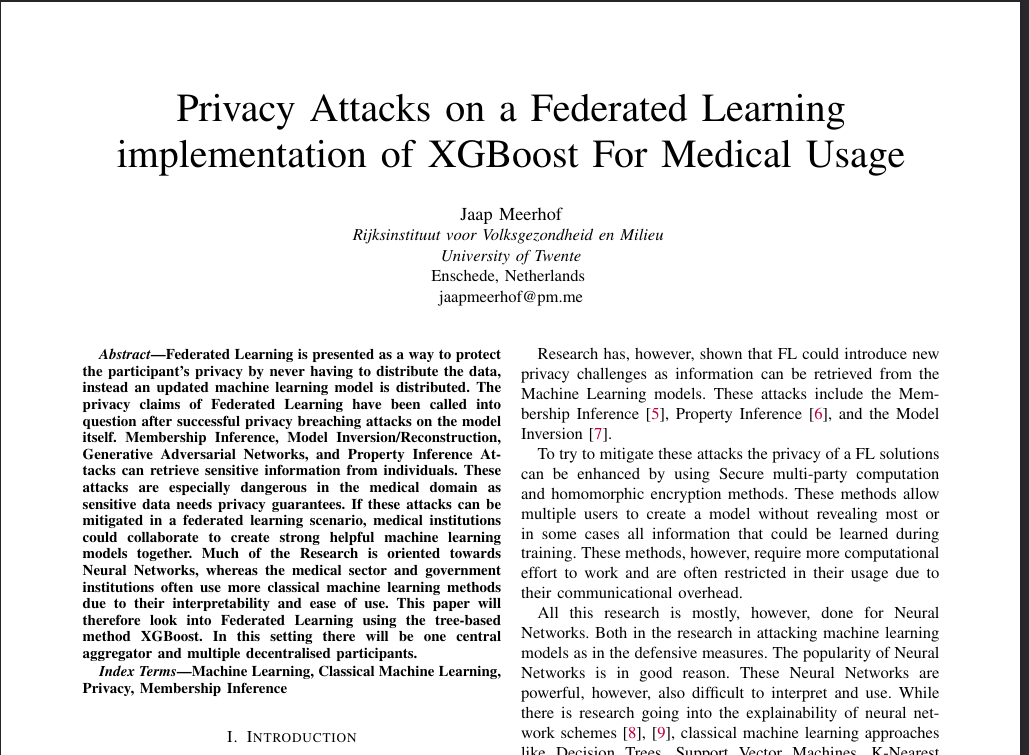
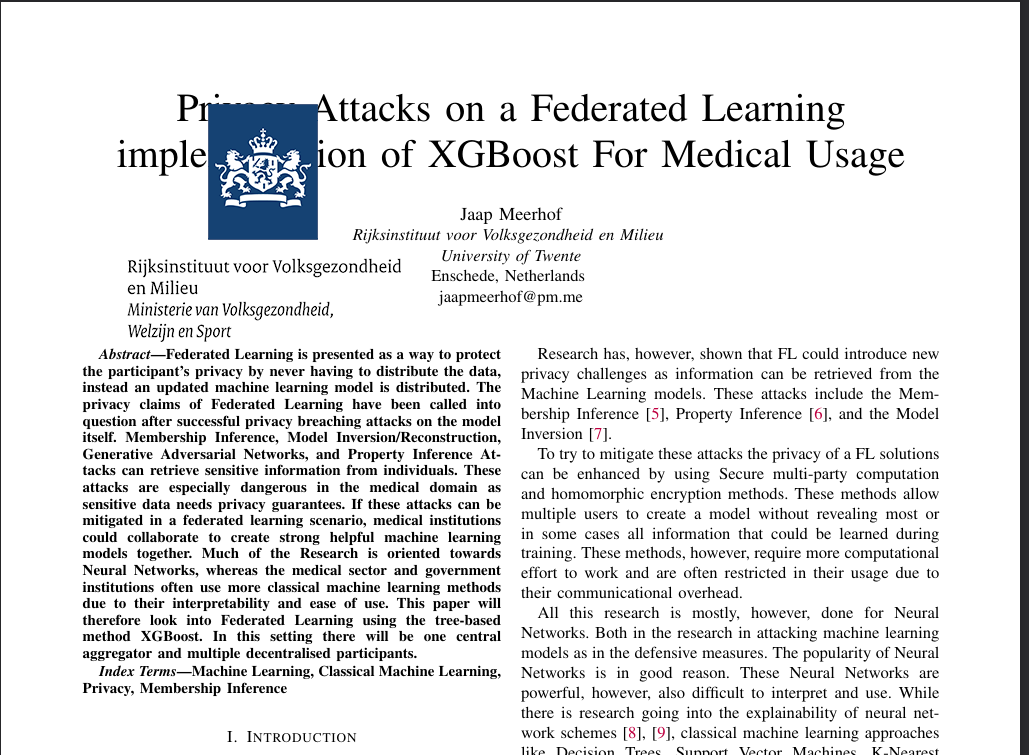
Big changes!

Changed region(s): [[0.1244, 0.1219, 0.4043, 0.457]]

diff --git a/content/projects/master/index.md b/content/projects/master/index.md
@@ -1,7 +1,18 @@
 ---
 title: "Master Thesis"
 date: 2023-06-25T20:53:32+02:00
-draft: true
+draft: false
 ---
 
-My master thesis is that I'm currently working on is about figuring out what the privacy when deploying XGBoost in a federated setting.
+I'm currently busy with my assignment for the RIVM (National Dutch Institute for Health and Nature). I'm investigating the privacy challenges in applying Gradient Boosted Decision Trees in a Federated setting. With the main question being: is your personal health data safe when this data is used in machine learning models (specifically XGBoost) where the models are shared with other parties.
+
+## Federated Learning
+
+The RIVM is investigating the viability of using federated learning for a data set that is currently being standardized between hospitals. Different hospitals will carry the same features, for example age, sex and medicine used will be stored for different patients on different hospitals. The hospitals and other health organizations can collaboratively create one model on this standardized data set. Federated Learning could be the Perfect solution for this problem.
+
+## XGBoost
+
+XGBoost is a quite new Gradient Boosted Decision Tree (GBDT) algorithm which builds upon the concept of GBDTs by adding extra regularization parameters and other computational speedups. There are algorithms to use XGBoost in federated settings by numerous papers. [Check my preparatory work paper (grade=8.0) ](https://jaapmeerhof.nl/index.php/s/Wpd4JrQoa9QdmPT).
+
+## Outlook
+Currently I just finished creating the federated version of XGBoost for binary classification. Which I'll have to adapt to multi-class classification. After that I'll be able to attack the simulated network and hopefully create an attack which takes advantage of the intermediate shared information. 

diff --git a/content/about.md b/content/about.md
@@ -4,8 +4,29 @@ date: 2023-06-24T17:50:18+02:00
 draft: false
 ---
 
-Hello reader, I'm Jaap Meerhof
+Hello reader, I'm **Jaap Meerhof**
 
 I'm a nerd that is mainly into privacy preserving technologies and cloud solutions.
 
-## TODO explain more, but don't reveal too much to preserver privacy
+## Education
+
+| Degree | University | date | 
+|---|---|---|
+| Bachelor of Science, Technical Computer Science/Technische informatica | University of Twente | 2018-2021
+| Master of Science, Computer Science / Cyber Security | University of Twente | 2021 - today |
+
+## Skills
+In general I'd say the most important skill I have build up is in general technical **problem-solving**.
+
+
+{{< alert icon="circle-info">}}
+**Note** the list of languages is not complete, it shows what I have most experience in. But I'd argue that once you learned a Procedural, Object Oriented, Functional, Scripting, or Logic Programming Language. You are able to work in all of them after you learn the syntax. 
+{{< /alert >}}
+| Skill | Experience |
+|----|---|
+| Python | Loads of scripting for mostly Machine Learning |
+| Java | I'd say my most mastered language |
+| Rust | Big Rust fan for security reasons |
+| SQL | DROP TABLE user ;|
+| Machine Learning | Advanced Machine Learning Experience in (Deep) Neural Networks, Reinforcement Learning, and Gradient Boosted Decision Trees | 
+| Cyber Security | My whole master -> my main experience is in **Fuzzing**, **Privacy Preserving Technologies**, **Network Security**, **Cloud Security**, **IOT security**, **Security/Privacy Law**,  **BioMetrics Security**| 

diff --git a/content/projects/bachelor_design/index.md b/content/projects/bachelor_design/index.md
@@ -4,11 +4,16 @@ date: 2021-03-14T21:14:23+02:00
 draft: false
 ---
 
-For my bachelor design project we were tasked in creating a location based augmented reality app. Thus we created UT-GO! [available on playstore](https://play.google.com/store/apps/details?id=nl.utwente.utgo). 
+For my bachelor design project we were tasked in creating a location based augmented reality app. Thus we created UT-GO!, [which is available on the PlayStore {{< icon "playstorecolor" >}}!](https://play.google.com/store/apps/details?id=nl.utwente.utgo) . 
 
 ## Usage by University of Twente
-We are quite proud that our app has been used numerous times to show new students around the University Of Twente in an interactive manner while teaching them about our Bachelor program.
+We are quite proud that our app has been used numerous times to show new students around the University Of Twente in an interactive manner while teaching them about our Bachelor program. 
+
+## My responsibility
+**I was responsible for the Augmented Reality**, which was quite painful as Google's AR-Core (our best option) was not supported by Google at the time. But the AR worked well in the end!
 
 [poster and other links](https://bachelorshowcase-eemcs.apps.utwente.nl/view/tGzVDPfc)
+
+**9.5 Grade Design**, won best presentation
 
 {{<youtube id="9-8iG8ViSPk" title="The trailer for UT-GO!" >}}

diff --git a/content/projects/personalwebsite/index.md b/content/projects/personalwebsite/index.md
@@ -4,11 +4,11 @@ date: 2023-06-24T21:55:02+02:00
 draft: false
 ---
 
-I always wanted to have my own website, however I did not want to deal with the front-end as JavaScript, CSS, and HTML coding is not something I enjoy. Especially JavaScript 🤮.
+I always wanted to have my own website, however I did not want to deal with the front-end as JavaScript, CSS, and HTML coding is not something I enjoy as much as doing back-end work.
 
 ## Hugo
 
-This website was made using Hugo, a framework made using Go. I was drawn too it as it is open-source and you don't have to interact with the HTML, CSS, and JavaScript. I even have the possibility in the future to completely switch the theme.
+This website was made using Hugo, a framework made using Go. I was drawn too it as it is open-source and you don't have to interact with the HTML, CSS, and JavaScript. I even have the possibility in the future to completely switch the theme. All I have to do is add markdown files in a certain structure and Hugo will do the rest of the work for me.
 
 <!-- {{< github repo="nunocoracao/blowfish" >}} -->
 

diff --git a/content/projects/bachelor_research/index.md b/content/projects/bachelor_research/index.md
@@ -9,4 +9,6 @@ tags: ["project"]
 
 For my bachelor's assignment I chose a project that involved Reinforcement Learning. My supervisor wanted to asses the viability of a new routing system that would use routers at junctions to route around vehicles. So when arriving at a junction you can ask the router which turn you should take at that junction. The router would learn from feedback of the car when it learns if it is closer to the end target at the next router. I investigated and created different Reinforcement Learning approaches in this setting to asses which would be best.
 
+I'm quite proud of this paper, looking back there are certainly some small things I would have done differently. But given that this is my first research project **I'm quite proud of this work** (**Grade 9.0 :research**, 8.0 :reflection).
+
 You can get the paper [here](http://essay.utwente.nl/86888/1/Meerhof_BA_EEMCS.pdf).

diff --git a/content/projects/jaapcloud/index.md b/content/projects/jaapcloud/index.md
@@ -10,7 +10,7 @@ New article!
 {{< lead >}}
 Control your own data!
 {{< /lead >}}
-# What is the JaapCloud1.0?
+## What is the JaapCloud1.0?
 The "JaapCloud1.x" is mostly tasked with hosting my personal [Nextcloud](https://nextcloud.com/) Instance. It also hosts a discord bot on the side, and is used for testing for future projects.
 
 ### Hardware

diff --git a/README.md b/README.md
@@ -1,0 +1,2 @@
+# My personal website at [jaap-meerhof.github.io](https://jaap-meerhof.github.io)
+
